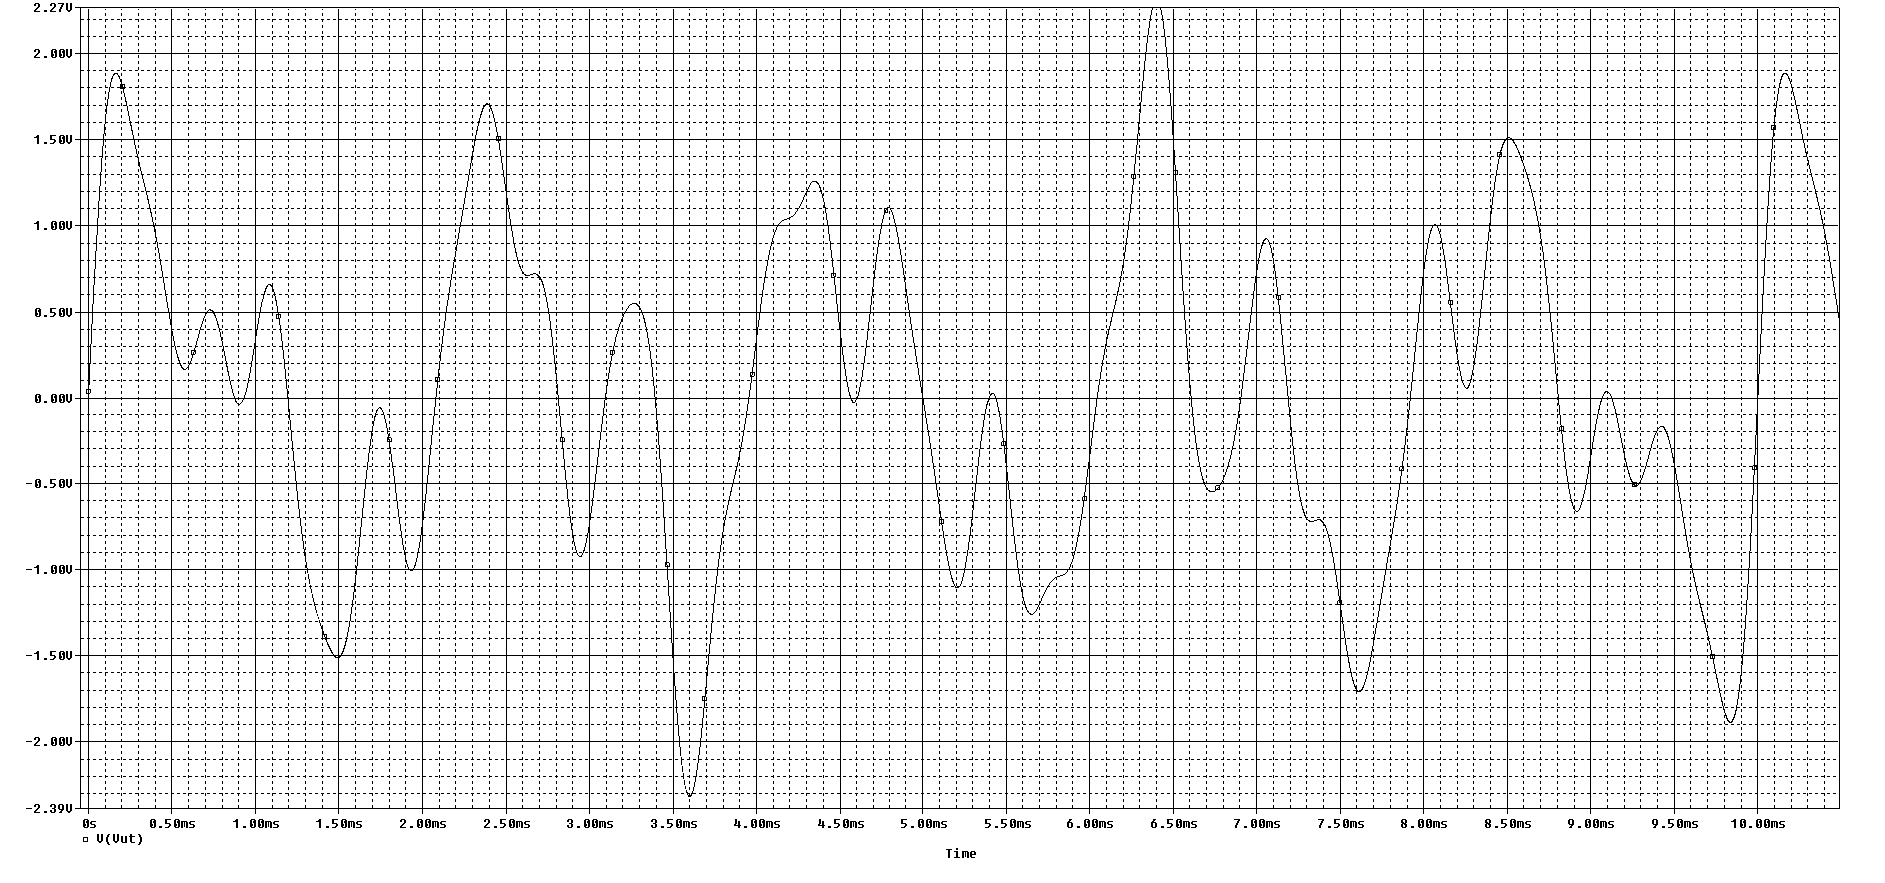
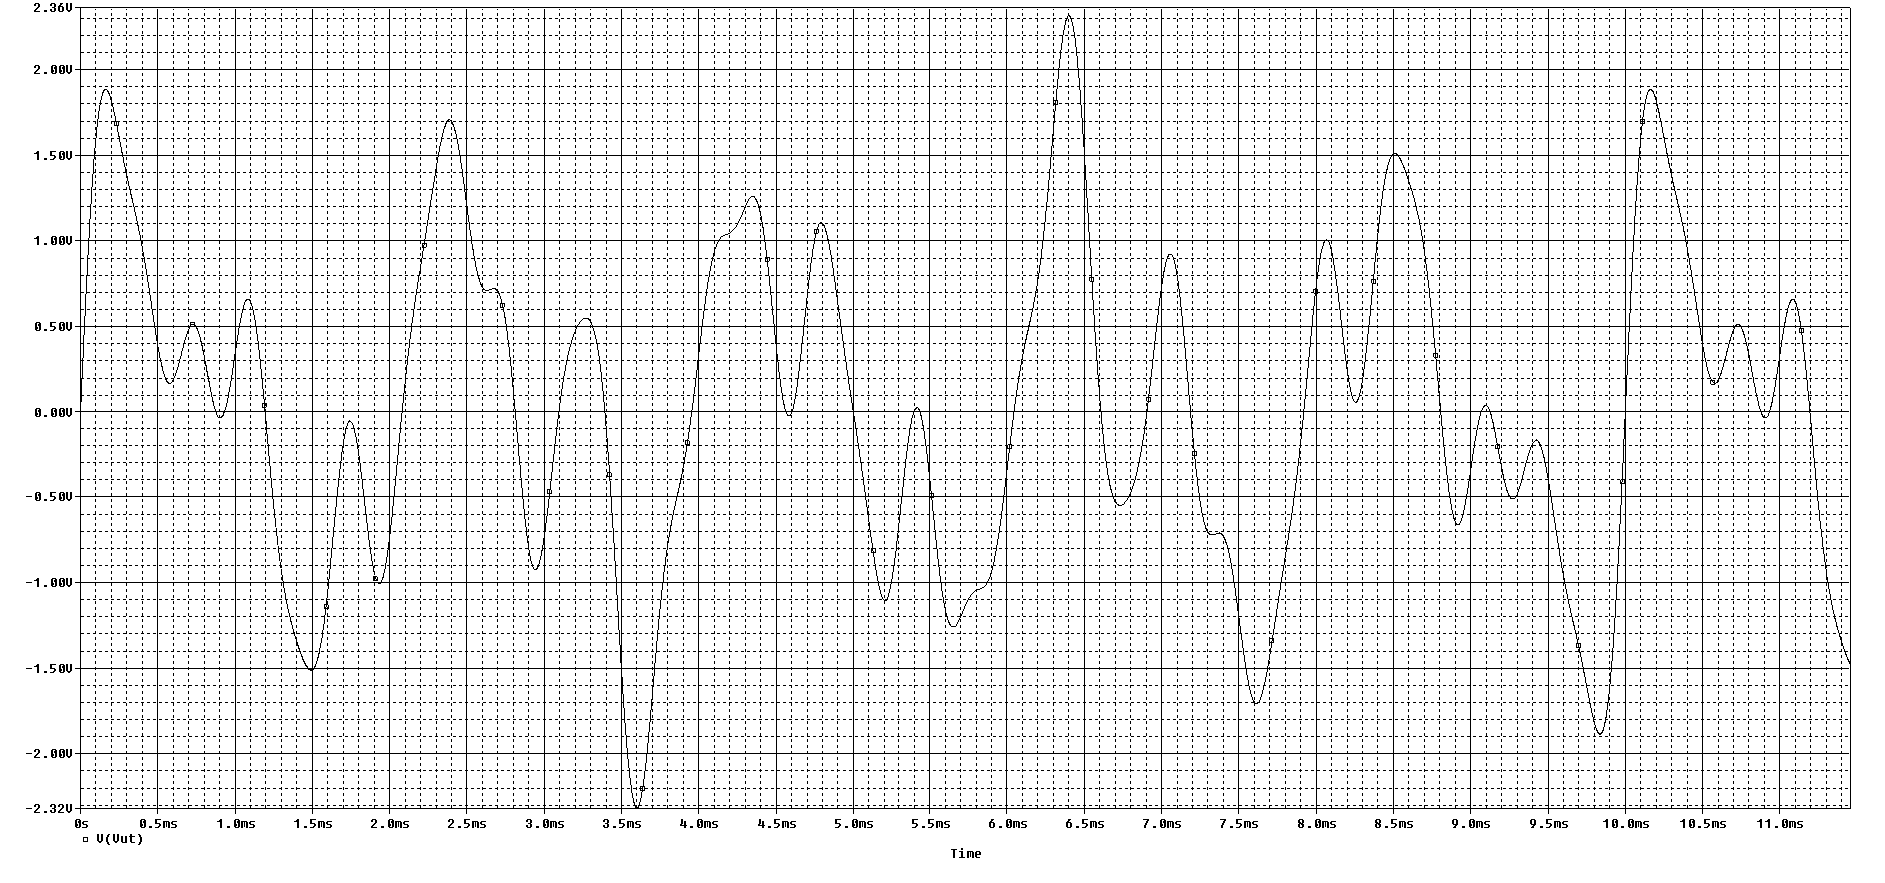
Ferdig oppgave 2

Changed region(s): [[0.0308, 0.0306, 0.9846, 0.9479], [0.5231, 0.9173, 0.5538, 0.9479]]

diff --git a/Lab1/Rapport1.tex b/Lab1/Rapport1.tex
@@ -77,14 +77,26 @@ Summeringskretsen vår er vist i figur \ref{fig:oppg1_schem}. Vi har altså 3 pa
 \section{Oppgave 2: Simulering av egen blanding av frekvenskomponenter}
 \jf{2.a}
 
-\begin{align*}  v(t)&=0\\ &+ 1\cdot\sin{(2\pi\cdot 500Hz)}\\ &+ 0.5 \cdot \sin{(2\pi\cdot 1000Hz)}\\ &+ 0.6 \cdot \sin{(2\pi\cdot 1300Hz)}\\ &+ 0.4 \cdot \sin{(2\pi\cdot 1900Hz)}\\ & + 0.2 \cdot \sin{(2\pi\cdot 3000Hz)}\end{align*}
+\begin{align}  v(t)&=0\\ &+ 1\cdot\sin{(2\pi\cdot 500Hz)}\\ &+ 0.5 \cdot \sin{(2\pi\cdot 1000Hz)}\\ &+ 0.6 \cdot \sin{(2\pi\cdot 1300Hz)}\\ &+ 0.4 \cdot \sin{(2\pi\cdot 1900Hz)}\\ & + 0.2 \cdot \sin{(2\pi\cdot 3000Hz)}
+\label{eq:Likning_3}
+\end{align}
 
 \jf{2.b}
-\includegraphics[width= 1\textwidth]{Figurer/oppg2_tid.png}
-
+\begin{figure}
+  \begin{center}
+     \includegraphics[width= 1\textwidth]{Figurer/oppg2_tid.png}
+     \caption{Spenning tidsplott for Signalet Sumut med parameterene i Oppgave 2.a}\label{fig:oppg2_tid}
+  \end{center}
+\end{figure}
 \jf{2.c}
+\begin{figure}
+  \begin{center}
+      \includegraphics[width= 1\textwidth]{Figurer/oppg2_fft.png}
+       \caption{Frekvenspekteret til signalet i Figur \ref{fig:oppg2_tid}. }\label{fig:oppg2_fft}
+  \end{center}
+\end{figure}
 
-
+Frekvensspekteret til signalet vi genererte er vist i Figur \ref{fig:oppg2_fft}. Vi ser her hvilke frekvenser det totale signalet består av. Vi ser at hver av toppene i frekvensspekteret korresponderer til hvert sitt ledd i Likning \ref{eq:Likning_3} 
 \section{Oppgave 3: dc og $b_n$ for $v(t)$}
 \jf{3.a}
 Utregning av \(dc\)-verdier:
